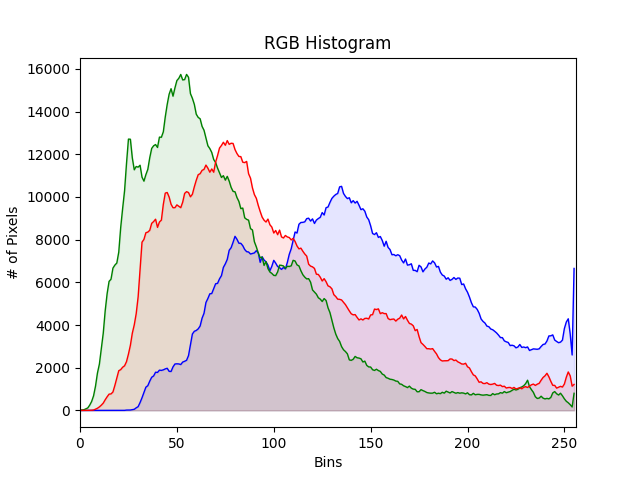
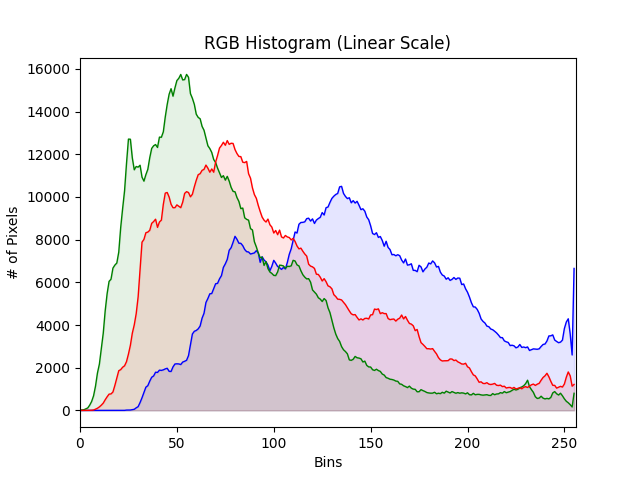
gitignore忽略CT图片集

Changed region(s): [[0.3125, 0.0625, 0.7188, 0.125]]

diff --git a/code/multy_encry_demo1/draw_histogram.py b/code/multy_encry_demo1/draw_histogram.py
@@ -1,106 +1,200 @@
 import os
 import cv2
+import numpy as np  # 【修改点】：引入 numpy 进行统计计算
 import matplotlib.pyplot as plt
 
-
-def draw_histogram_for_file(image_path, save_path):
+def calculate_limits(img, is_log):
     """
-    读取单个图像文件，计算其RGB直方图并保存统计图。
-    修改点：纵坐标使用对数刻度，且填充曲线下面积。
+    【新增功能】：计算图像直方图数据的 mu +/- 5*sigma 范围。
     """
-    img = cv2.imread(image_path)
+    # 1. 计算所有通道的直方图数据
+    hist_data = []
+    for i in range(3):
+        hist = cv2.calcHist([img], [i], None, [256], [0, 256])
+        hist_data.append(hist.flatten())
     
-    if img is None:
-        print(f"Error: Unable to open image {image_path}")
-        return
+    # 合并三个通道的数据为一个大数组进行统计
+    all_data = np.concatenate(hist_data)
+    
+    if is_log:
+        # --- Log 模式统计逻辑 ---
+        # 避免 log(0)，加一个极小值 epsilon (例如 1e-6 或 1)
+        # 这里加 1 是因为像素数通常是整数，log(1)=0，不会产生负无穷
+        log_data = np.log(all_data + 1)
+        
+        mu = np.mean(log_data)
+        sigma = np.std(log_data)
+        
+        # 计算 Log 域下的上下限
+        upper_log = mu + 5 * sigma
+        lower_log = mu - 5 * sigma
+        
+        # 【关键】：因为 plt.yscale('log') 还是使用线性数值标记刻度，
+        # 所以我们需要把 log 域的统计值还原回线性域 (exp)
+        y_max = np.exp(upper_log)
+        y_min = np.exp(lower_log)
+        
+        # Log 坐标下，下限不能小于等于 0，设置一个安全下限（如 1）
+        if y_min < 1: 
+            y_min = 1
+            
+    else:
+        # --- 线性模式统计逻辑 ---
+        mu = np.mean(all_data)
+        sigma = np.std(all_data)
+        
+        y_max = mu + 1 * sigma
+        y_min = mu - 1 * sigma
+        
+        # 线性坐标下，像素数量不可能为负，截断到 0
+        if y_min < 0:
+            y_min = 0
+            
+    return y_min, y_max
 
+def plot_and_save_histogram(img, save_path, log_scale=False, y_limits=None):
+    """
+    绘制并保存直方图。
+    【修改点】：增加了 y_limits 参数用于固定纵坐标范围。
+    """
     plt.figure()
-    # plt.title("RGB Histogram (Log Scale)")
-    plt.title("RGB Histogram")
+    
+    if log_scale:
+        plt.title("RGB Histogram (Log Scale)")
+        plt.yscale('log')
+    else:
+        plt.title("RGB Histogram (Linear Scale)")
+
     plt.xlabel("Bins")
     plt.ylabel("# of Pixels")
+    plt.xlim([0, 256])
     
-    # 【修改点 1】：设置纵坐标为对数坐标
-    # 这句话会让 Y 轴的刻度变成 10^0, 10^1, 10^2... 
-    # 对于加密后的均匀分布或者差异巨大的像素分布，对数坐标能看得更清楚。
-    # plt.yscale('log') 
+    # 【修改点】：应用计算好的纵坐标范围
+    if y_limits is not None:
+        plt.ylim(y_limits)
 
     colors = ('b', 'g', 'r')
     for i, color in enumerate(colors):
-        # 计算直方图
         hist = cv2.calcHist([img], [i], None, [256], [0, 256])
-        
-        # 将 opencv 计算出的 (256, 1) 数组展平为一维，方便绘图
         hist_data = hist.flatten()
-        
-        # 绘制曲线 (保留轮廓线，看起来更清晰)
         plt.plot(hist_data, color=color, linewidth=1)
-        
-        # 【修改点 2】：填充线下颜色
-        # range(256): 指定 x 轴范围是 0 到 255
-        # hist_data: 指定 y 轴数据
-        # alpha=0.5: 设置透明度为 0.5，这样红绿蓝重叠的部分也能看清，而不是互相覆盖
+        # 调整透明度为 0.1 避免遮挡
         plt.fill_between(range(256), hist_data, color=color, alpha=0.1)
-
-        plt.xlim([0, 256])
 
     plt.savefig(save_path)
     plt.close()
 
-
-def process_histogram_folder(source_dir, output_dir):
+def process_paired_folders(plain_dir, cipher_dir, 
+                           plain_out_dict, cipher_out_dict):
     """
-    遍历 source_dir 下的所有图片，绘制直方图并保存到 output_dir。
+    【核心修改】：成对处理文件夹。
+    同时读取 Plain 和 Cipher 图片，计算共同的纵坐标范围，然后绘图。
     """
-    # 1. 确保输出目录存在
-    if not os.path.exists(output_dir):
-        os.makedirs(output_dir)
-        print(f"Created directory: {output_dir}")
+    # 1. 创建所有输出目录
+    for d in list(plain_out_dict.values()) + list(cipher_out_dict.values()):
+        if d and not os.path.exists(d):
+            os.makedirs(d)
 
-    # 2. 遍历源文件夹
-    files = os.listdir(source_dir)
+    # 2. 以 Plain 文件夹的文件列表为基准
+    if not os.path.exists(plain_dir):
+        print(f"Error: Source directory {plain_dir} does not exist.")
+        return
+
+    files = os.listdir(plain_dir)
     count = 0
     
-    print(f"Processing histograms for folder: {source_dir} ...")
+    print(f"Processing paired histograms for: {plain_dir} AND {cipher_dir} ...")
     
     for filename in files:
-        # 简单过滤图片文件，可根据需要增加 png 等格式
         if filename.lower().endswith(('.jpg', '.jpeg', '.png', '.bmp')):
-            input_path = os.path.join(source_dir, filename)
             
-            # 为了区分，输出的文件名可以加个 _hist 后缀，或者保持原名（这里保持原名，但扩展名可能需要注意）
-            # 这里直接使用原文件名，保存为 png 格式（matplotlib 默认支持）
+            # --- 步骤 A: 读取成对的图片 ---
+            plain_path = os.path.join(plain_dir, filename)
+            cipher_path = os.path.join(cipher_dir, filename)
+            
+            img_plain = cv2.imread(plain_path)
+            
+            # 如果加密文件夹里没有对应的图，或者读取失败，则跳过对比逻辑（或者你可以选择单独处理）
+            if not os.path.exists(cipher_path):
+                print(f"Warning: Cipher counterpart not found for {filename}")
+                continue
+                
+            img_cipher = cv2.imread(cipher_path)
+
+            if img_plain is None or img_cipher is None:
+                continue
+
             output_filename = f"{os.path.splitext(filename)[0]}_hist.png"
-            output_path = os.path.join(output_dir, output_filename)
             
             try:
-                draw_histogram_for_file(input_path, output_path)
+                # --- 步骤 B: 确定 线性坐标 的共同范围 ---
+                # 分别计算两个图的建议范围 (mu +/- 5sigma)
+                p_lin_min, p_lin_max = calculate_limits(img_plain, is_log=False)
+                c_lin_min, c_lin_max = calculate_limits(img_cipher, is_log=False)
+                
+                # 【核心逻辑】：取并集。
+                # 为了对比，Y轴上限必须能容纳两者中最高的那个上限。
+                # 通常 Plain 图会有很高的峰值，而 Cipher 图很平。如果不统一，Cipher 图会被放大看噪声。
+                # 统一后，Cipher 图应该在下方显示为一条平缓的线。
+                shared_linear_max = max(p_lin_max, c_lin_max)
+                shared_linear_min = min(p_lin_min, c_lin_min) # 通常是 0
+                linear_limits = [shared_linear_min, shared_linear_max]
+
+                # --- 步骤 C: 确定 Log 坐标 的共同范围 ---
+                p_log_min, p_log_max = calculate_limits(img_plain, is_log=True)
+                c_log_min, c_log_max = calculate_limits(img_cipher, is_log=True)
+                
+                shared_log_max = max(p_log_max, c_log_max)
+                shared_log_min = min(p_log_min, c_log_min)
+                log_limits = [shared_log_min, shared_log_max]
+
+                # --- 步骤 D: 绘图并保存 ---
+                
+                # 1. Plain Image Plots
+                if plain_out_dict.get("linear"):
+                    save_path = os.path.join(plain_out_dict["linear"], output_filename)
+                    plot_and_save_histogram(img_plain, save_path, False, linear_limits)
+                
+                if plain_out_dict.get("log"):
+                    save_path = os.path.join(plain_out_dict["log"], output_filename)
+                    plot_and_save_histogram(img_plain, save_path, True, log_limits)
+
+                # 2. Cipher Image Plots (使用相同的 limits)
+                if cipher_out_dict.get("linear"):
+                    save_path = os.path.join(cipher_out_dict["linear"], output_filename)
+                    plot_and_save_histogram(img_cipher, save_path, False, linear_limits)
+                
+                if cipher_out_dict.get("log"):
+                    save_path = os.path.join(cipher_out_dict["log"], output_filename)
+                    plot_and_save_histogram(img_cipher, save_path, True, log_limits)
+                
                 count += 1
+                if count % 10 == 0:
+                    print(f"Processed pairs: {count}...")
+
             except Exception as e:
                 print(f"Failed to process {filename}: {e}")
+                import traceback
+                traceback.print_exc()
 
-    print(f"Finished. Generated {count} histograms in '{output_dir}'.\n")
+    print(f"Finished. Processed {count} image pairs.\n")
 
 if __name__ == "__main__":
-    # 定义文件夹路径
+    # --- 配置路径 ---
     
-    # 1. 原始图片及其直方图存放目录
-    plain_img_dir = "pictures/plain_img"
-    plain_hist_dir = "pictures/plain_hist"
+    plain_dir = "pictures/plain_img"
+    cipher_dir = "pictures/cipher_img"
     
-    # 2. 加密图片及其直方图存放目录
-    cipher_img_dir = "pictures/cipher_img"
-    cipher_hist_dir = "pictures/cipher_hist"
+    # 定义输出路径字典
+    plain_out = {
+        "linear": "pictures/plain_hist",
+        "log": "pictures/plain_hist_log"
+    }
+    
+    cipher_out = {
+        "linear": "pictures/cipher_hist",
+        "log": "pictures/cipher_hist_log"
+    }
 
-    # 执行批量绘图：处理未加密图片
-    if os.path.exists(plain_img_dir):
-        process_histogram_folder(plain_img_dir, plain_hist_dir)
-    else:
-        print(f"Warning: Directory '{plain_img_dir}' does not exist.")
-
-    # 执行批量绘图：处理加密后图片
-    if os.path.exists(cipher_img_dir):
-        process_histogram_folder(cipher_img_dir, cipher_hist_dir)
-    else:
-        print(f"Warning: Directory '{cipher_img_dir}' does not exist.")
-
+    # 执行成对处理
+    process_paired_folders(plain_dir, cipher_dir, plain_out, cipher_out)
